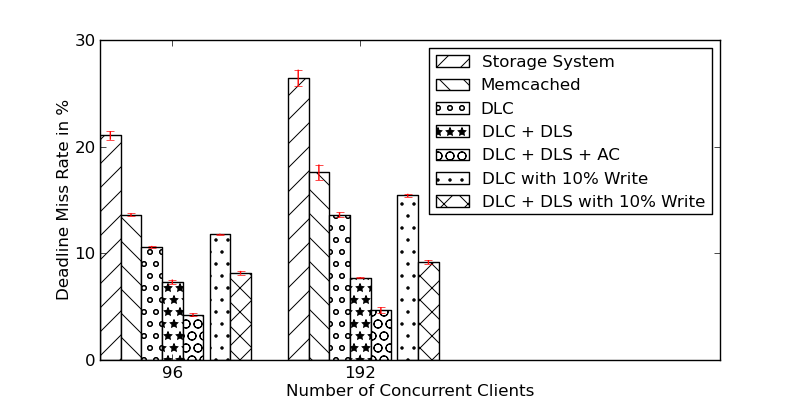
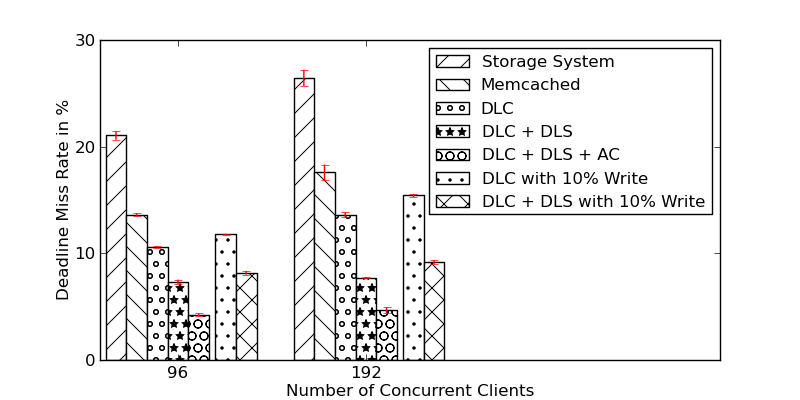
polished miss bar script a little bit more

Changed region(s): [[0.125, 0.18, 0.5625, 0.96]]

diff --git a/python/MicroFuge_Pyplot/bars/miss_bar.py b/python/MicroFuge_Pyplot/bars/miss_bar.py
@@ -80,6 +80,8 @@ plt.clf()
 
 plt.figure(None, figsize=(8,4), dpi = 100)
 
+ind = ind + .03
+
 mean_values = []
 stderr_values = []
 get_results(DN_DIR, DN_CLIENT_NUMBERS, mean_values, stderr_values)
